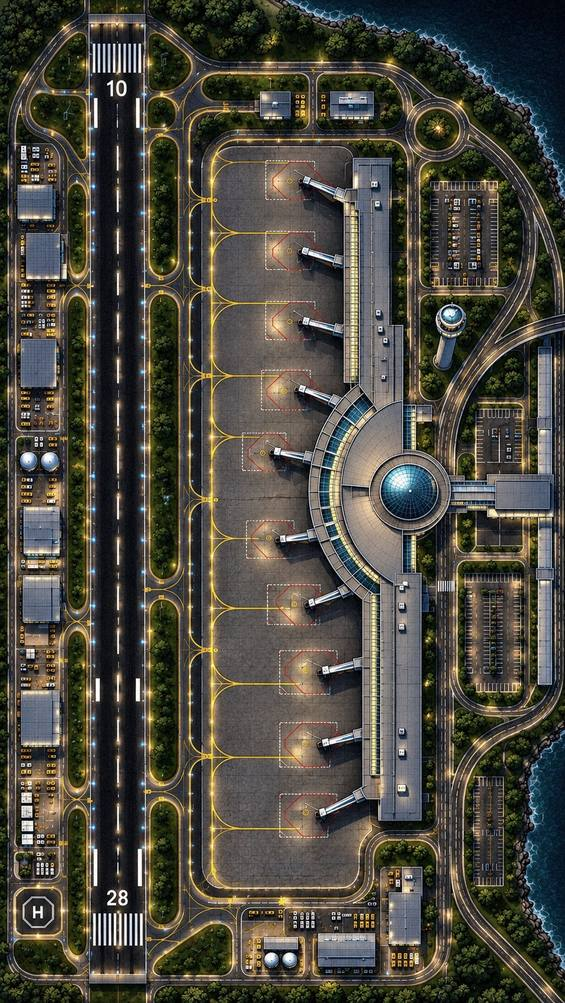
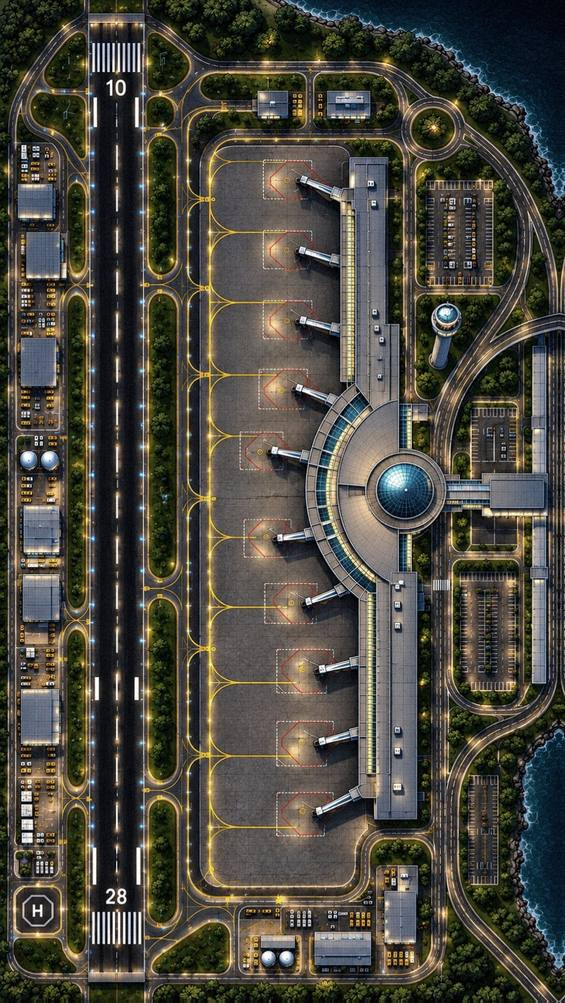
Noite do Galeão alinhada ao dia; sem realce amarelo ao passar o mouse nos portões
Claude-Session: https://claude.ai/code/session_01Y22HSWpi8bJjkUpXL6Y8uJ

diff --git a/lite.html b/lite.html
@@ -31,7 +31,7 @@ button:focus-visible{outline:2px solid var(--y);outline-offset:2px}
 .zreset{position:absolute;left:10px;top:10px;z-index:12;display:flex;align-items:center;gap:6px;background:var(--k);border:1px solid var(--y);color:var(--y);font-weight:800;font-size:12px;border-radius:18px;padding:6px 12px;min-height:36px}
 .zreset[hidden]{display:none}
 .zhint{position:absolute;left:50%;top:45%;transform:translate(-50%,-50%);font-weight:700;z-index:12;background:rgba(0,0,0,.7);color:var(--g);font-size:11px;border-radius:12px;padding:4px 10px;pointer-events:none;transition:opacity .6s}
-.map{position:absolute;left:0;top:0;transform-origin:0 0;background:url(lite_map.jpg?v=20261124) center/100% 100% no-repeat;overflow:hidden;will-change:transform}
+.map{position:absolute;left:0;top:0;transform-origin:0 0;background:url(lite_map.jpg?v=20261124b) center/100% 100% no-repeat;overflow:hidden;will-change:transform}
 
 /* aviões */
 .pl{position:absolute;transform:translate(-50%,-50%);pointer-events:none;will-change:left,top}
@@ -54,7 +54,7 @@ button:focus-visible{outline:2px solid var(--y);outline-offset:2px}
 .sign.no{opacity:.35}
 @keyframes pulse{50%{transform:scale(1.15)}}
 .hit{position:absolute;transform:translate(-50%,-50%);border-radius:10px;z-index:4}
-.hit:hover{background:rgba(253,233,52,.12)}
+.assign .hit:hover{background:rgba(253,233,52,.12)}
 .assign .hit.ok{background:rgba(70,224,122,.18);outline:2px dashed var(--gr)}
 .tag{position:absolute;transform:translate(-50%,0);background:rgba(0,0,0,.82);color:var(--w);font-size:max(7px,min(.85vh,9px));font-weight:700;padding:1px 4px;border-radius:2px;line-height:1.2;white-space:nowrap;border-left:2px solid var(--y);pointer-events:none;z-index:5}
 
@@ -184,23 +184,23 @@ body.rot .map{background:none}
 body.rot .sky{display:none}
 body.rot .sign,body.rot .rwy{transform:translate(-50%,-50%) rotate(90deg)}
 body.land .mobileBar{top:50%;transform:translateY(-50%)}
-#bgH{position:absolute;left:0;top:0;transform-origin:0 0;background:url(lite_maph.jpg?v=20261124) center/100% 100% no-repeat;display:none;pointer-events:none}
+#bgH{position:absolute;left:0;top:0;transform-origin:0 0;background:url(lite_maph.jpg?v=20261124b) center/100% 100% no-repeat;display:none;pointer-events:none}
 #bgH i{position:absolute;top:0;right:0;bottom:0;left:0;opacity:0;background:center/100% 100% no-repeat}
-#skyTh{background-image:url(lite_maph.jpg?v=20261124)!important}#skyNh{background-image:url(lite_maph_noite.jpg?v=20261124)!important}
+#skyTh{background-image:url(lite_maph.jpg?v=20261124b)!important}#skyNh{background-image:url(lite_maph_noite.jpg?v=20261124b)!important}
 body.rot #bgH{display:block}
-body.l2 #bgH{background-image:url(maph2_dia.jpg?v=20261124)}body.l2 #skyTh{background-image:url(maph2_tarde.jpg?v=20261124)!important}body.l2 #skyNh{background-image:url(maph2_noite.jpg?v=20261124)!important}
-body.l3 #bgH{background-image:url(maph3_dia.jpg?v=20261124)}body.l3 #skyTh{background-image:url(maph3_tarde.jpg?v=20261124)!important}body.l3 #skyNh{background-image:url(maph3_noite.jpg?v=20261124)!important}
-body.rot.l2 .stage::before{background-image:url(maph2_dia.jpg?v=20261124)}body.rot.l3 .stage::before{background-image:url(maph3_dia.jpg?v=20261124)}
+body.l2 #bgH{background-image:url(maph2_dia.jpg?v=20261124b)}body.l2 #skyTh{background-image:url(maph2_tarde.jpg?v=20261124b)!important}body.l2 #skyNh{background-image:url(maph2_noite.jpg?v=20261124b)!important}
+body.l3 #bgH{background-image:url(maph3_dia.jpg?v=20261124b)}body.l3 #skyTh{background-image:url(maph3_tarde.jpg?v=20261124b)!important}body.l3 #skyNh{background-image:url(maph3_noite.jpg?v=20261124b)!important}
+body.rot.l2 .stage::before{background-image:url(maph2_dia.jpg?v=20261124b)}body.rot.l3 .stage::before{background-image:url(maph3_dia.jpg?v=20261124b)}
 body.land .rail{top:84px}
 
 @media(max-height:520px){body.land .mobileBar{gap:4px}body.land .mobileBar .tab,body.land .mobileBar .mb{width:40px;height:40px;border-radius:9px}body.land .mobileBar .tab .ico,body.land .mobileBar .mb .ico{width:24px;height:24px}body.land .mobileBar .mb.clockb .clock{font-size:11px}body.land .mobileBar .mb.clockb small{display:none}body.land .rail{top:70px}}
 
 .sky{position:absolute;top:0;right:0;bottom:0;left:0;background:center/100% 100% no-repeat;opacity:0;pointer-events:none}
-#skyT{background-image:url(lite_map.jpg?v=20261124)}#skyN{background-image:url(lite_map_noite.jpg?v=20261124)}
-body.l2 .map{background-image:url(lite_map2.jpg?v=20261124)}body.l2 #skyT{background-image:url(lite_map2.jpg?v=20261124)}body.l2 #skyN{background-image:url(lite_map2_noite.jpg?v=20261124)}
-body.l2 .stage::before{background-image:url(lite_map2.jpg?v=20261124)}
-body.l3 .map{background-image:url(lite_map3.jpg?v=20261124)}body.l3 #skyT{background-image:url(lite_map3.jpg?v=20261124)}body.l3 #skyN{background-image:url(lite_map3_noite.jpg?v=20261124)}
-body.l3 .stage::before{background-image:url(lite_map3.jpg?v=20261124)}body.l3 #glow{display:none}
+#skyT{background-image:url(lite_map.jpg?v=20261124b)}#skyN{background-image:url(lite_map_noite.jpg?v=20261124b)}
+body.l2 .map{background-image:url(lite_map2.jpg?v=20261124b)}body.l2 #skyT{background-image:url(lite_map2.jpg?v=20261124b)}body.l2 #skyN{background-image:url(lite_map2_noite.jpg?v=20261124b)}
+body.l2 .stage::before{background-image:url(lite_map2.jpg?v=20261124b)}
+body.l3 .map{background-image:url(lite_map3.jpg?v=20261124b)}body.l3 #skyT{background-image:url(lite_map3.jpg?v=20261124b)}body.l3 #skyN{background-image:url(lite_map3_noite.jpg?v=20261124b)}
+body.l3 .stage::before{background-image:url(lite_map3.jpg?v=20261124b)}body.l3 #glow{display:none}
 .dl.apt .dl-r{font-size:13px;color:#bbb}.dl-go{margin-top:8px}
 #glow{position:absolute;top:0;right:0;bottom:0;left:0;background:url(glow1.png) center/100% 100% no-repeat;opacity:var(--nt,.2);pointer-events:none;mix-blend-mode:screen;z-index:1}
 body.l2 #glow{background-image:url(glow2.png)}#glow{display:none!important}body.rot #glow{display:none}
@@ -523,8 +523,8 @@ body.neo .aq-t:empty{background:#1d1e21;box-shadow:inset 3px 3px 6px rgba(0,0,0,
   .toast{position:fixed;top:auto;bottom:18px;max-width:calc(100% - 150px);left:calc(50% - 30px)}
 }
 @media(prefers-reduced-motion:reduce){.sign.ok .plate{animation:none!important}}
-.stage::before{content:"";position:absolute;top:-40px;right:-40px;bottom:-40px;left:-40px;background:url(lite_map.jpg?v=20261124) center/cover no-repeat;filter:blur(22px) brightness(.75)}
-body.rot .stage::before{background-image:url(lite_maph.jpg?v=20261124)}
+.stage::before{content:"";position:absolute;top:-40px;right:-40px;bottom:-40px;left:-40px;background:url(lite_map.jpg?v=20261124b) center/cover no-repeat;filter:blur(22px) brightness(.75)}
+body.rot .stage::before{background-image:url(lite_maph.jpg?v=20261124b)}
 /* capa: compatível com Safari antigo (sem gap em flex, altura explícita) */
 .cover{height:100vh;height:100dvh;grid-template-rows:auto minmax(0,1fr) auto}
 .signs>*+*{margin-top:8px}.sgn>*+*{margin-left:12px}.cv-act>*+*{margin-top:8px}
@@ -889,7 +889,7 @@ if(!window.PointerEvent){(function(){
 })()}
 </script>
 <script>
-var APPV='1795521934';
+var APPV='1795522164';
 (function(){function chk(){try{fetch('version.txt?t='+Date.now(),{cache:'no-store'}).then(function(r){return r.ok?r.text():''}).then(function(v){v=(v||'').trim();if(v&&v!==APPV){var k='departure_reload_'+v;if(!sessionStorage.getItem(k)){sessionStorage.setItem(k,'1');location.replace(location.pathname+'?v='+v)}}}).catch(function(){})}catch(e){}}
 chk();document.addEventListener('visibilitychange',function(){if(!document.hidden)chk()});})();
 </script>

diff --git a/index.html b/index.html
@@ -31,7 +31,7 @@ button:focus-visible{outline:2px solid var(--y);outline-offset:2px}
 .zreset{position:absolute;left:10px;top:10px;z-index:12;display:flex;align-items:center;gap:6px;background:var(--k);border:1px solid var(--y);color:var(--y);font-weight:800;font-size:12px;border-radius:18px;padding:6px 12px;min-height:36px}
 .zreset[hidden]{display:none}
 .zhint{position:absolute;left:50%;top:45%;transform:translate(-50%,-50%);font-weight:700;z-index:12;background:rgba(0,0,0,.7);color:var(--g);font-size:11px;border-radius:12px;padding:4px 10px;pointer-events:none;transition:opacity .6s}
-.map{position:absolute;left:0;top:0;transform-origin:0 0;background:url(map.jpg?v=20261124) center/100% 100% no-repeat;overflow:hidden;will-change:transform}
+.map{position:absolute;left:0;top:0;transform-origin:0 0;background:url(map.jpg?v=20261124b) center/100% 100% no-repeat;overflow:hidden;will-change:transform}
 
 /* aviões */
 .pl{position:absolute;transform:translate(-50%,-50%);pointer-events:none;will-change:left,top}
@@ -54,7 +54,7 @@ button:focus-visible{outline:2px solid var(--y);outline-offset:2px}
 .sign.no{opacity:.35}
 @keyframes pulse{50%{transform:scale(1.15)}}
 .hit{position:absolute;transform:translate(-50%,-50%);border-radius:10px;z-index:4}
-.hit:hover{background:rgba(253,233,52,.12)}
+.assign .hit:hover{background:rgba(253,233,52,.12)}
 .assign .hit.ok{background:rgba(70,224,122,.18);outline:2px dashed var(--gr)}
 .tag{position:absolute;transform:translate(-50%,0);background:rgba(0,0,0,.82);color:var(--w);font-size:max(7px,min(.85vh,9px));font-weight:700;padding:1px 4px;border-radius:2px;line-height:1.2;white-space:nowrap;border-left:2px solid var(--y);pointer-events:none;z-index:5}
 
@@ -184,23 +184,23 @@ body.rot .map{background:none}
 body.rot .sky{display:none}
 body.rot .sign,body.rot .rwy{transform:translate(-50%,-50%) rotate(90deg)}
 body.land .mobileBar{top:50%;transform:translateY(-50%)}
-#bgH{position:absolute;left:0;top:0;transform-origin:0 0;background:url(maph_dia.jpg?v=20261124) center/100% 100% no-repeat;display:none;pointer-events:none}
+#bgH{position:absolute;left:0;top:0;transform-origin:0 0;background:url(maph_dia.jpg?v=20261124b) center/100% 100% no-repeat;display:none;pointer-events:none}
 #bgH i{position:absolute;top:0;right:0;bottom:0;left:0;opacity:0;background:center/100% 100% no-repeat}
-#skyTh{background-image:url(maph_tarde.jpg?v=20261124)!important}#skyNh{background-image:url(maph_noite.jpg?v=20261124)!important}
+#skyTh{background-image:url(maph_tarde.jpg?v=20261124b)!important}#skyNh{background-image:url(maph_noite.jpg?v=20261124b)!important}
 body.rot #bgH{display:block}
-body.l2 #bgH{background-image:url(maph2_dia.jpg?v=20261124)}body.l2 #skyTh{background-image:url(maph2_tarde.jpg?v=20261124)!important}body.l2 #skyNh{background-image:url(maph2_noite.jpg?v=20261124)!important}
-body.l3 #bgH{background-image:url(maph3_dia.jpg?v=20261124)}body.l3 #skyTh{background-image:url(maph3_tarde.jpg?v=20261124)!important}body.l3 #skyNh{background-image:url(maph3_noite.jpg?v=20261124)!important}
-body.rot.l2 .stage::before{background-image:url(maph2_dia.jpg?v=20261124)}body.rot.l3 .stage::before{background-image:url(maph3_dia.jpg?v=20261124)}
+body.l2 #bgH{background-image:url(maph2_dia.jpg?v=20261124b)}body.l2 #skyTh{background-image:url(maph2_tarde.jpg?v=20261124b)!important}body.l2 #skyNh{background-image:url(maph2_noite.jpg?v=20261124b)!important}
+body.l3 #bgH{background-image:url(maph3_dia.jpg?v=20261124b)}body.l3 #skyTh{background-image:url(maph3_tarde.jpg?v=20261124b)!important}body.l3 #skyNh{background-image:url(maph3_noite.jpg?v=20261124b)!important}
+body.rot.l2 .stage::before{background-image:url(maph2_dia.jpg?v=20261124b)}body.rot.l3 .stage::before{background-image:url(maph3_dia.jpg?v=20261124b)}
 body.land .rail{top:84px}
 
 @media(max-height:520px){body.land .mobileBar{gap:4px}body.land .mobileBar .tab,body.land .mobileBar .mb{width:40px;height:40px;border-radius:9px}body.land .mobileBar .tab .ico,body.land .mobileBar .mb .ico{width:24px;height:24px}body.land .mobileBar .mb.clockb .clock{font-size:11px}body.land .mobileBar .mb.clockb small{display:none}body.land .rail{top:70px}}
 
 .sky{position:absolute;top:0;right:0;bottom:0;left:0;background:center/100% 100% no-repeat;opacity:0;pointer-events:none}
-#skyT{background-image:url(map_tarde.jpg?v=20261124)}#skyN{background-image:url(map_noite.jpg?v=20261124)}
-body.l2 .map{background-image:url(map2_dia.jpg?v=20261124)}body.l2 #skyT{background-image:url(map2_tarde.jpg?v=20261124)}body.l2 #skyN{background-image:url(map2_noite.jpg?v=20261124)}
-body.l2 .stage::before{background-image:url(map2_dia.jpg?v=20261124)}
-body.l3 .map{background-image:url(map3_dia.jpg?v=20261124)}body.l3 #skyT{background-image:url(map3_tarde.jpg?v=20261124)}body.l3 #skyN{background-image:url(map3_noite.jpg?v=20261124)}
-body.l3 .stage::before{background-image:url(map3_dia.jpg?v=20261124)}body.l3 #glow{display:none}
+#skyT{background-image:url(map_tarde.jpg?v=20261124b)}#skyN{background-image:url(map_noite.jpg?v=20261124b)}
+body.l2 .map{background-image:url(map2_dia.jpg?v=20261124b)}body.l2 #skyT{background-image:url(map2_tarde.jpg?v=20261124b)}body.l2 #skyN{background-image:url(map2_noite.jpg?v=20261124b)}
+body.l2 .stage::before{background-image:url(map2_dia.jpg?v=20261124b)}
+body.l3 .map{background-image:url(map3_dia.jpg?v=20261124b)}body.l3 #skyT{background-image:url(map3_tarde.jpg?v=20261124b)}body.l3 #skyN{background-image:url(map3_noite.jpg?v=20261124b)}
+body.l3 .stage::before{background-image:url(map3_dia.jpg?v=20261124b)}body.l3 #glow{display:none}
 .dl.apt .dl-r{font-size:13px;color:#bbb}.dl-go{margin-top:8px}
 #glow{position:absolute;top:0;right:0;bottom:0;left:0;background:url(glow1.png) center/100% 100% no-repeat;opacity:var(--nt,.2);pointer-events:none;mix-blend-mode:screen;z-index:1}
 body.l2 #glow{background-image:url(glow2.png)}#glow{display:none!important}body.rot #glow{display:none}
@@ -523,8 +523,8 @@ body.neo .aq-t:empty{background:#1d1e21;box-shadow:inset 3px 3px 6px rgba(0,0,0,
   .toast{position:fixed;top:auto;bottom:18px;max-width:calc(100% - 150px);left:calc(50% - 30px)}
 }
 @media(prefers-reduced-motion:reduce){.sign.ok .plate{animation:none!important}}
-.stage::before{content:"";position:absolute;top:-40px;right:-40px;bottom:-40px;left:-40px;background:url(map.jpg?v=20261124) center/cover no-repeat;filter:blur(22px) brightness(.75)}
-body.rot .stage::before{background-image:url(maph_dia.jpg?v=20261124)}
+.stage::before{content:"";position:absolute;top:-40px;right:-40px;bottom:-40px;left:-40px;background:url(map.jpg?v=20261124b) center/cover no-repeat;filter:blur(22px) brightness(.75)}
+body.rot .stage::before{background-image:url(maph_dia.jpg?v=20261124b)}
 /* capa: compatível com Safari antigo (sem gap em flex, altura explícita) */
 .cover{height:100vh;height:100dvh;grid-template-rows:auto minmax(0,1fr) auto}
 .signs>*+*{margin-top:8px}.sgn>*+*{margin-left:12px}.cv-act>*+*{margin-top:8px}
@@ -880,7 +880,7 @@ if(!window.PointerEvent){(function(){
 })()}
 </script>
 <script>
-var APPV='1795521934';
+var APPV='1795522164';
 (function(){function chk(){try{fetch('version.txt?t='+Date.now(),{cache:'no-store'}).then(function(r){return r.ok?r.text():''}).then(function(v){v=(v||'').trim();if(v&&v!==APPV){var k='departure_reload_'+v;if(!sessionStorage.getItem(k)){sessionStorage.setItem(k,'1');location.replace(location.pathname+'?v='+v)}}}).catch(function(){})}catch(e){}}
 chk();document.addEventListener('visibilitychange',function(){if(!document.hidden)chk()});})();
 </script>
